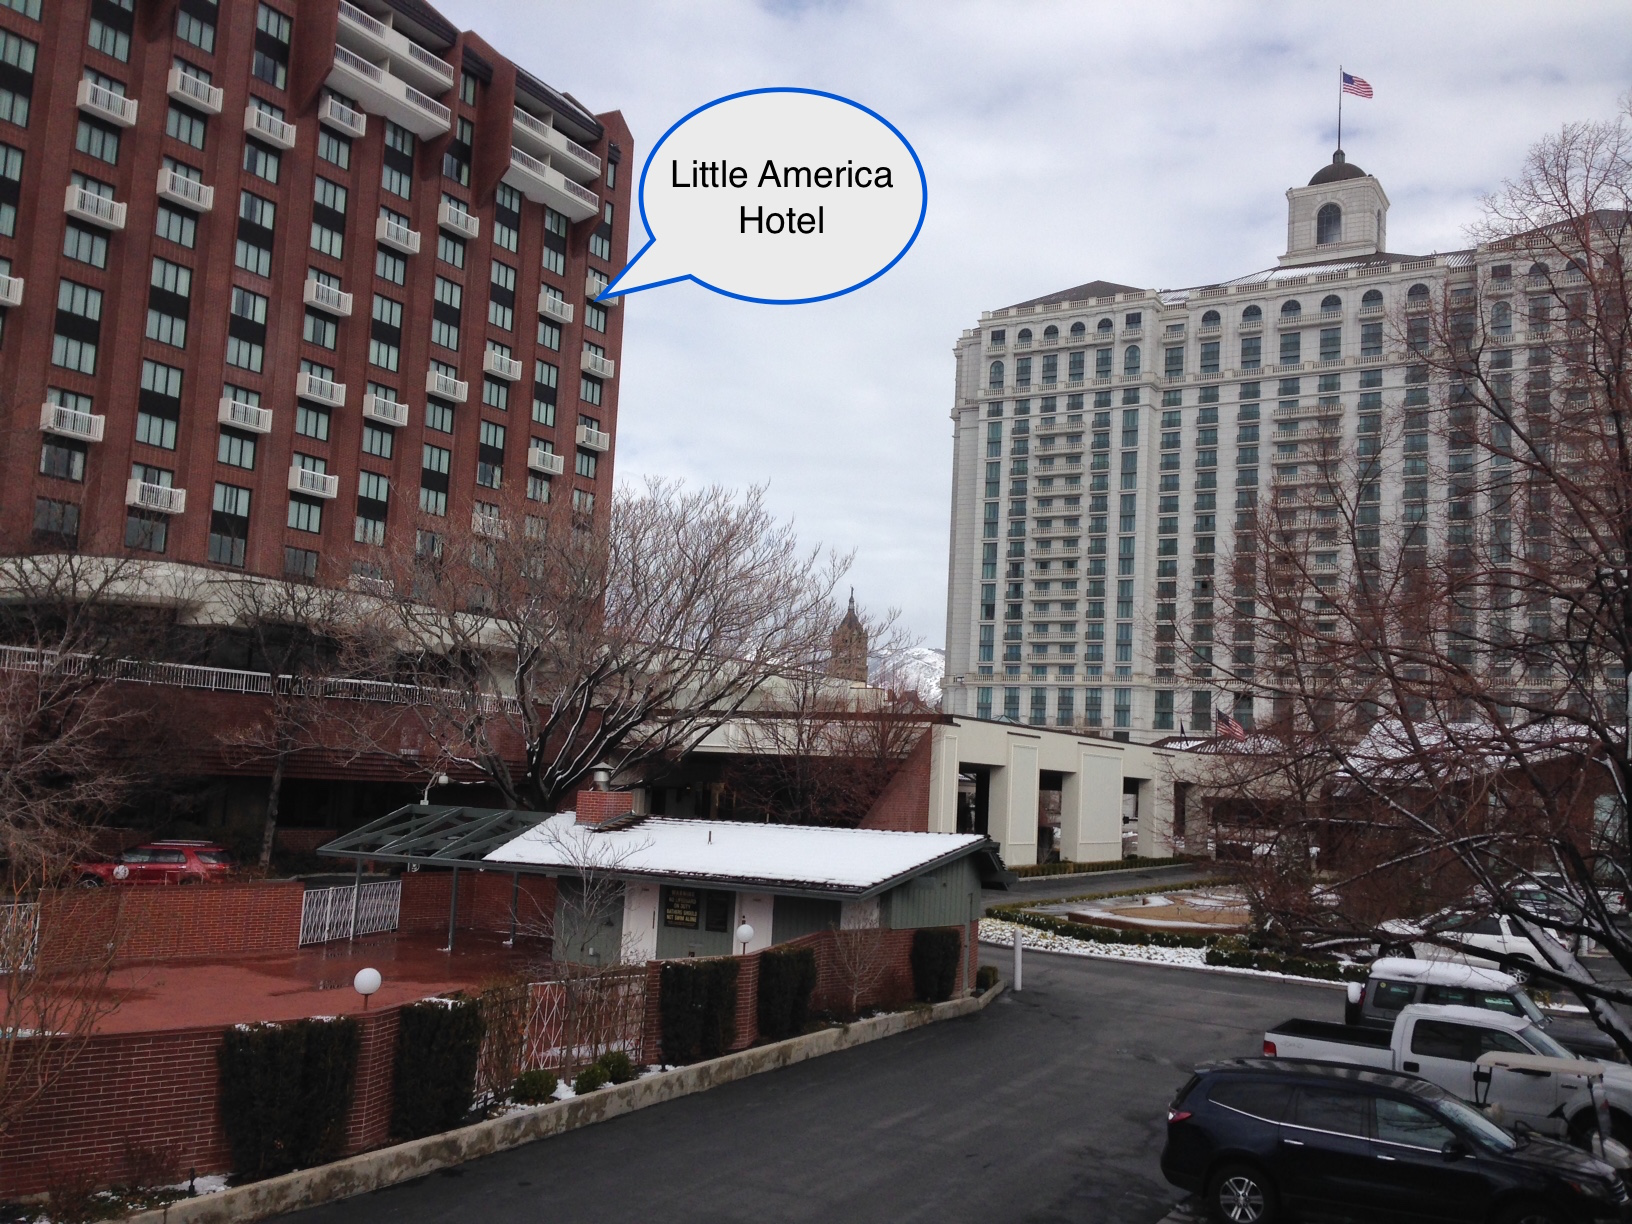
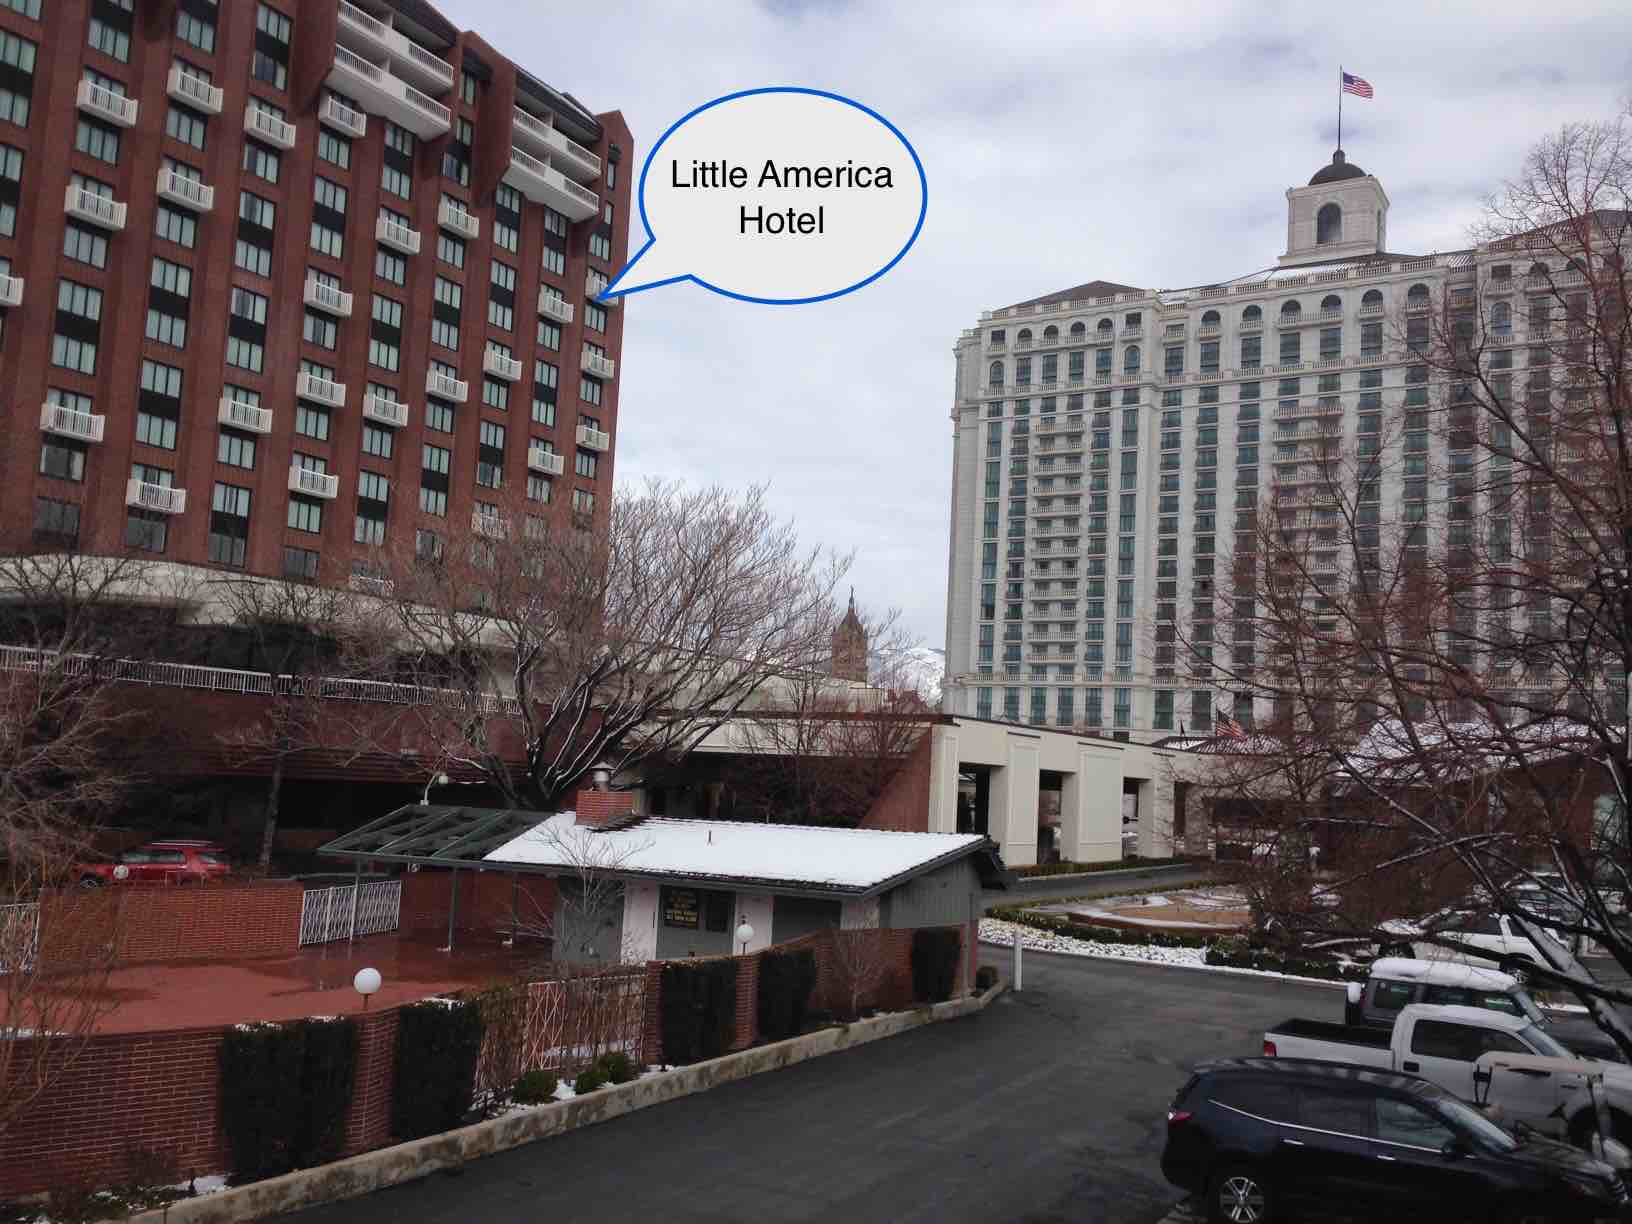
Optimised ngConf image and added imageoptim as a build step

diff --git a/Gruntfile.js b/Gruntfile.js
@@ -200,7 +200,7 @@ module.exports = function(grunt) {
 	grunt.registerTask('_build', 'PRIVATE - creates an environment-specific build', ['clean:env', 'exec:build', 'stylus:compile']);
 
 	grunt.registerTask('dev', ['env:dev', '_build', 'connect:dev', 'watch']);
-	grunt.registerTask('prod', ['env:prod', '_build', 'connect:prod']);
+	grunt.registerTask('prod', ['env:prod', 'imagemin', '_build', 'connect:prod']);
 
 	grunt.registerTask('publish', ['env:prod', '_build', 'gh-pages']);
 

diff --git a/_posts/2015-03-04-ngConf-2015-Intro-and-Day1.md b/_posts/2015-03-04-ngConf-2015-Intro-and-Day1.md
@@ -8,7 +8,7 @@ tags: [angularjs, ngConf, 2015]
 comments: true
 share: true 
 image:
-  feature: ngConf2.jpg
+  feature: ngConf1.jpg
   credit: Me
   creditlink: 
 ---
